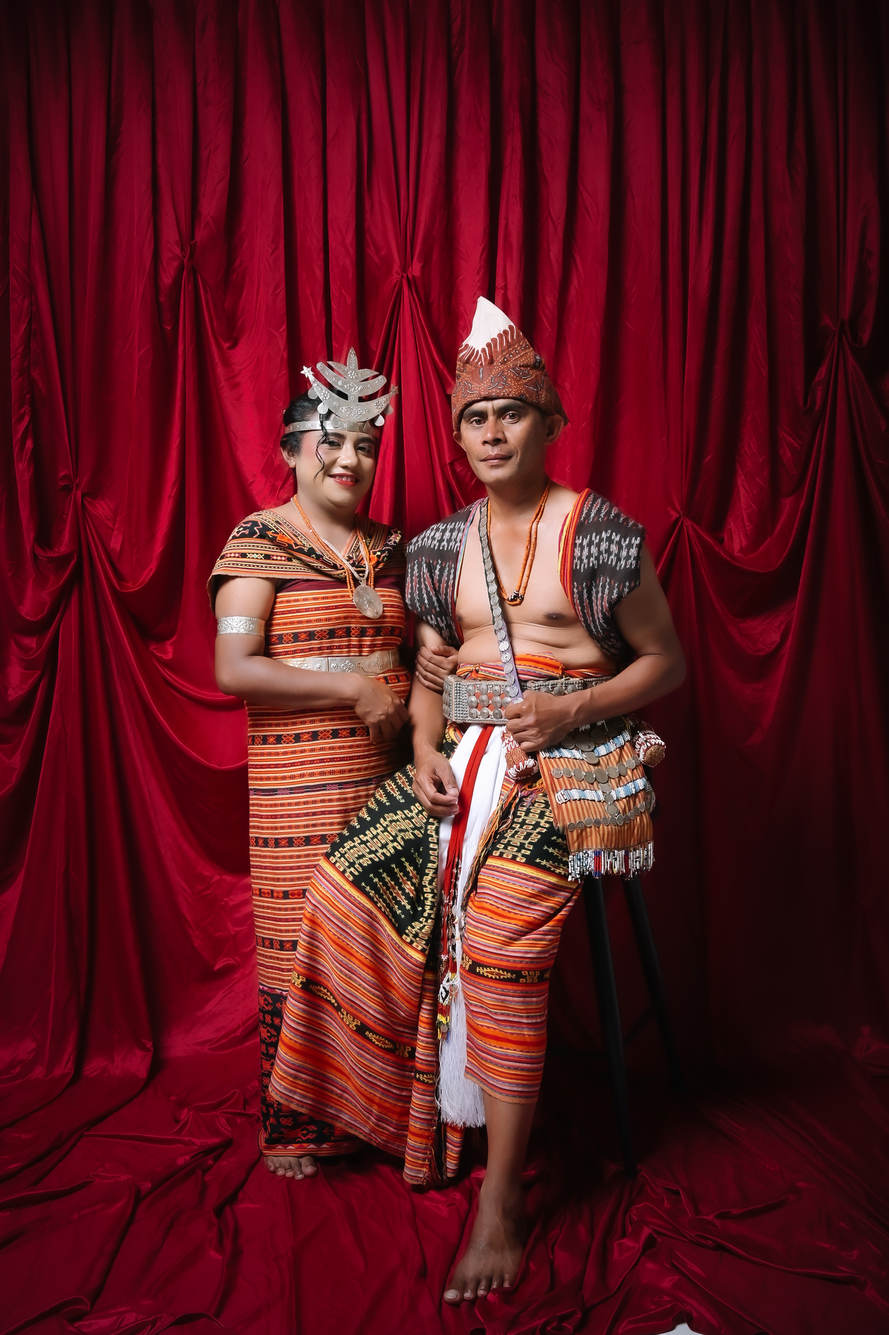
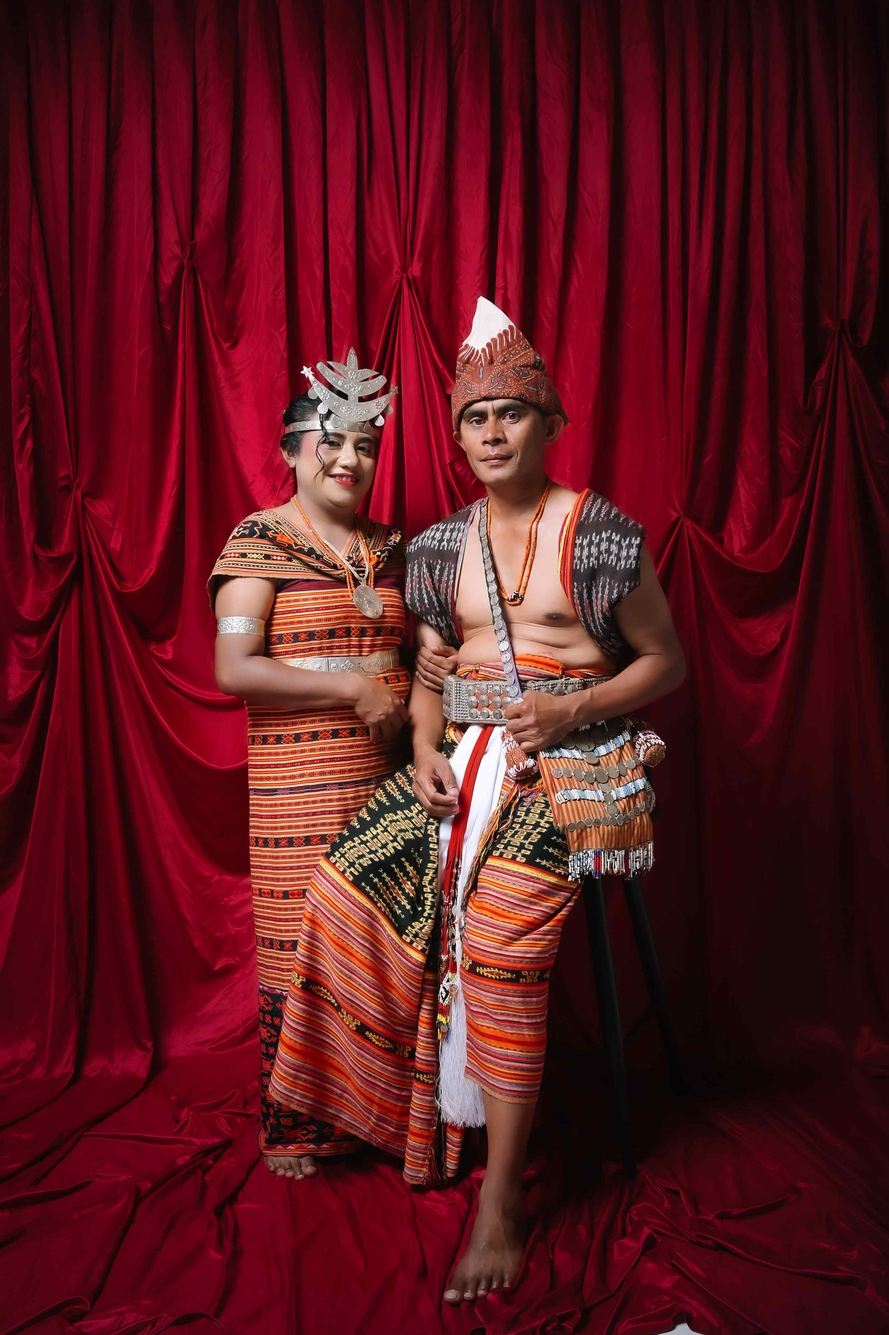
second commit

Changed region(s): [[0.3427, 0.625, 0.4362, 0.6875], [0.5608, 0.5938, 0.6231, 0.6562], [0.4362, 0.5938, 0.4673, 0.625]]

diff --git a/index.html b/index.html
@@ -8,12 +8,12 @@
     <title>Undangan Pernikahan Yonam & Herni</title>
     <link rel="icon" type="image/jpeg" href="assets/dec/thumb.jpeg">
 
-    <meta property="og:title" content="Undangan Pernikahan Vent & Try">
+    <meta property="og:title" content="Undangan Pernikahan Yonam & Herni">
     <meta property="og:description" content="Klik untuk membuka undangan pernikahan kami">
-    <meta property="og:image" content="https://linniel.github.io/venttrywedding.github.io/assets/dec/thumb.jpeg">
+    <meta property="og:image" content="https://linniel.github.io/yonamherniwedding.github.io/assets/dec/thumb.jpeg">
     <meta property="og:image:width" content="1200">
     <meta property="og:image:height" content="630">
-    <meta property="og:url" content="https://linniel.github.io/venttrywedding.github.io/">
+    <meta property="og:url" content="https://linniel.github.io/yonamherniwedding.github.io/">
     <meta property="og:type" content="website">
     <meta property="og:site_name" content="Undangan Pernikahanan Yonam & Herni ">
     <meta name="twitter:card" content="summary_large_image">

diff --git a/admin/nama_tamu.html b/admin/nama_tamu.html
@@ -121,7 +121,7 @@ nama = nama
 
 let urlNama = encodeURIComponent(nama);
 
-let link = "https://linniel.github.io/venttrywedding.github.io/?to=" + urlNama;
+let link = "https://linniel.github.io/yonamherniwedding.github.io/?to=" + urlNama;
 
 let pesan =
 `Assalamu’alaikum Warahmatullahi Wabarakatuh
@@ -139,7 +139,7 @@ ${link}
 Merupakan suatu kehormatan bagi kami apabila Bapak/Ibu/Saudara/i berkenan hadir dan memberikan doa restu.
 
 Yang Berbahagia  
-Vent & Try`;
+Yonam & Herni`;
 
 hasil += `
 <div class="message-box">
